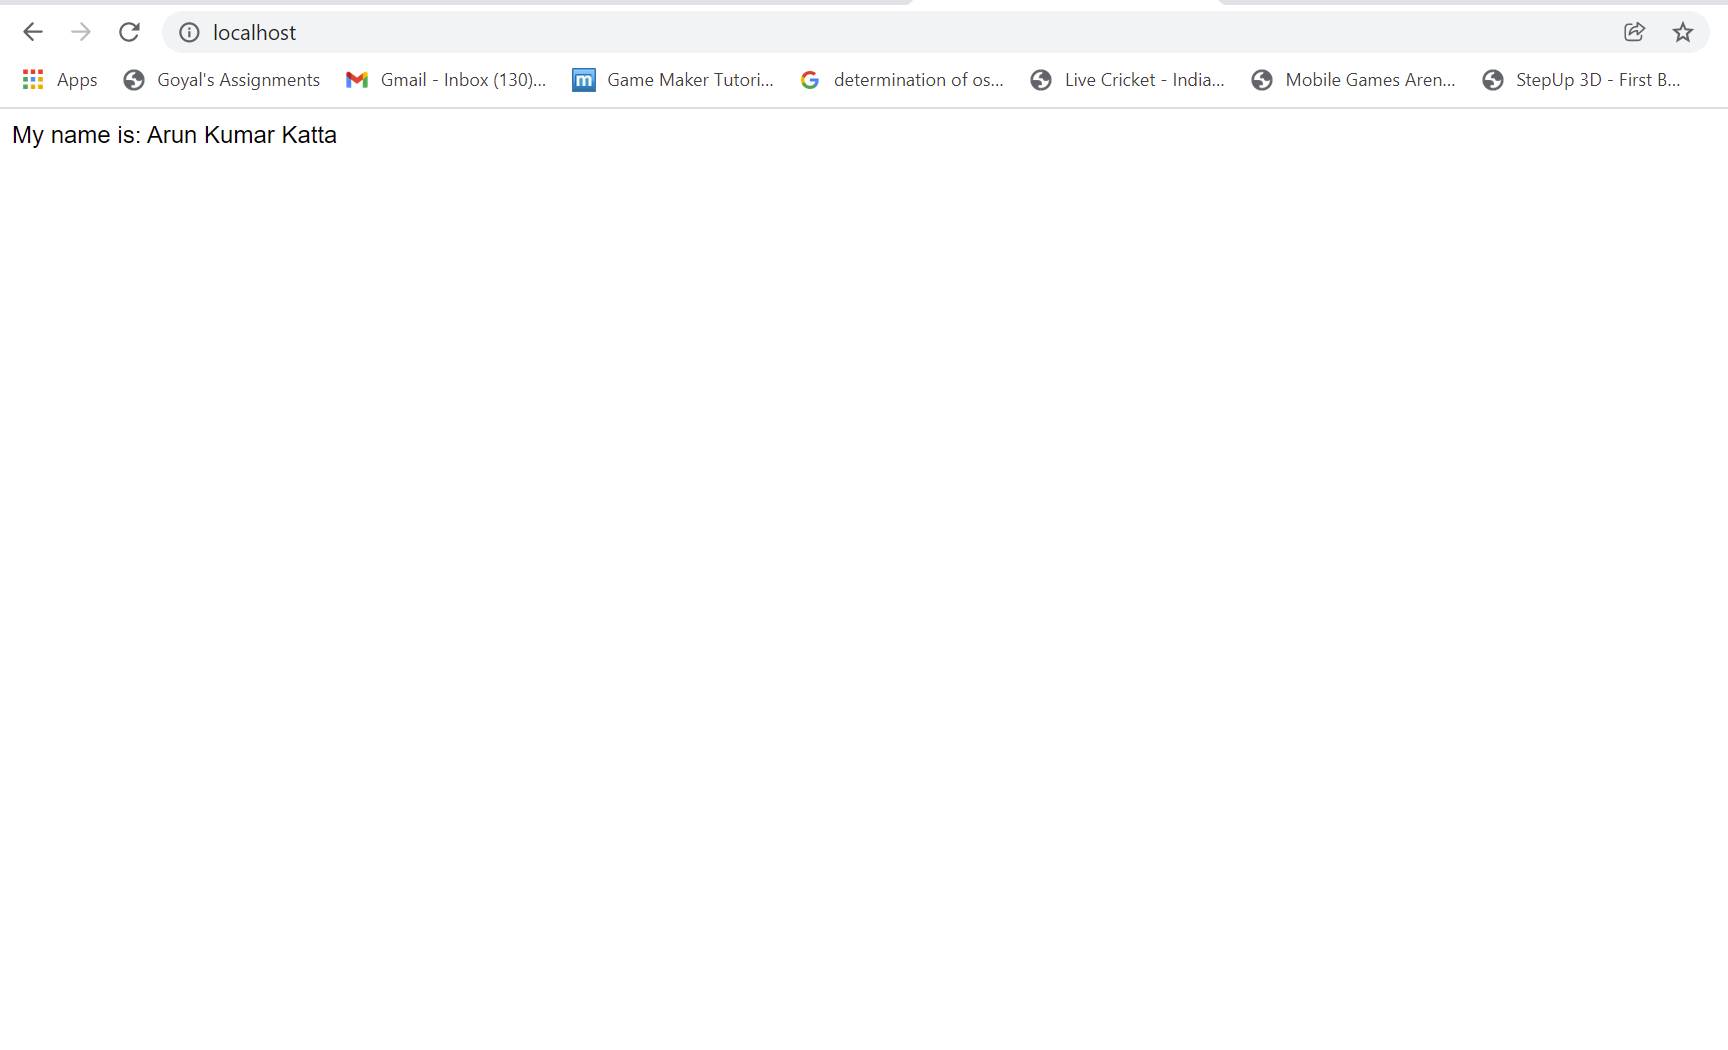
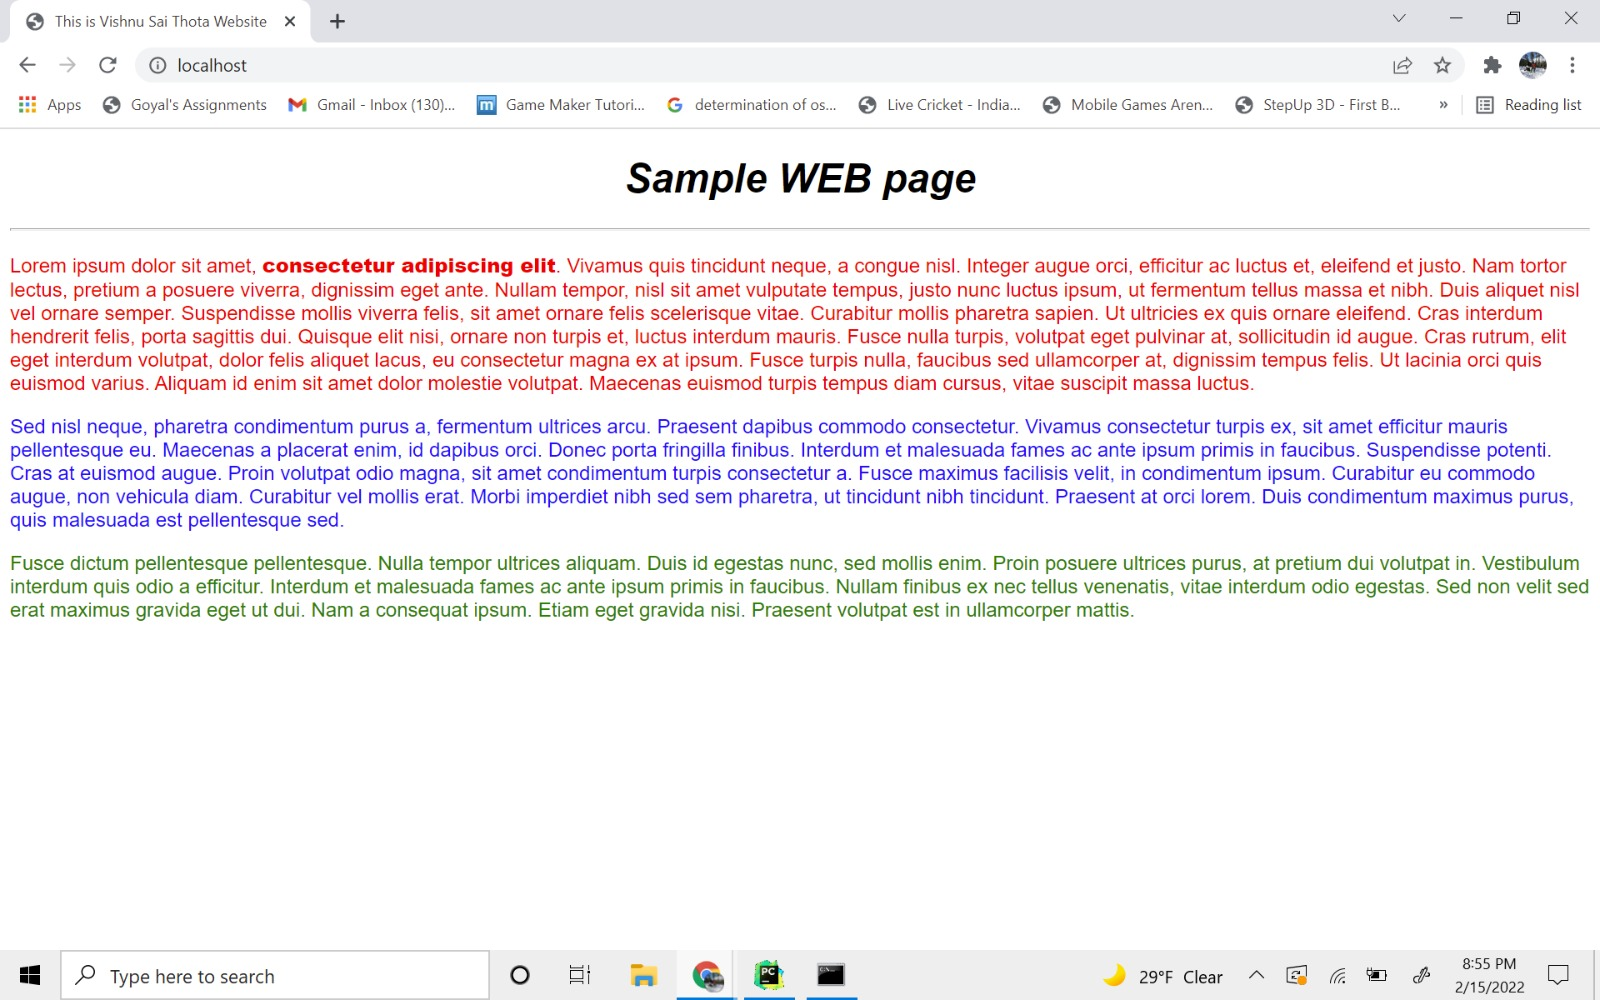
updated

diff --git a/app/templates/index.html b/app/templates/index.html
@@ -6,12 +6,20 @@
     {% block head %}
         <link rel="stylesheet" href="{{ url_for('static', filename='css/style.css') }}"/>
         <script src="{{ url_for('static', filename='js/scripts.js') }}"></script>
-
         <title>{% block title %}{% endblock %}This is {{ name }} Website</title>
     {% endblock %}
 
 </head>
 <body>
-My name is: {{ name }}
+    <div id="main-div">
+        <h1><em>Sample WEB page</em></h1>
+        <hr>
+        <p class="red">Lorem ipsum dolor sit amet, <span class="bold">consectetur adipiscing elit</span>. Vivamus quis tincidunt neque, a congue nisl. Integer augue orci, efficitur ac luctus et, eleifend et justo. Nam tortor lectus, pretium a posuere viverra, dignissim eget ante. Nullam tempor, nisl sit amet vulputate tempus, justo nunc luctus ipsum, ut fermentum tellus massa et nibh. Duis aliquet nisl vel ornare semper. Suspendisse mollis viverra felis, sit amet ornare felis scelerisque vitae. Curabitur mollis pharetra sapien. Ut ultricies ex quis ornare eleifend. Cras interdum hendrerit felis, porta sagittis dui. Quisque elit nisi, ornare non turpis et, luctus interdum mauris. Fusce nulla turpis, volutpat eget pulvinar at, sollicitudin id augue. Cras rutrum, elit eget interdum volutpat, dolor felis aliquet lacus, eu consectetur magna ex at ipsum. Fusce turpis nulla, faucibus sed ullamcorper at, dignissim tempus felis. Ut lacinia orci quis euismod varius. Aliquam id enim sit amet dolor molestie volutpat. Maecenas euismod turpis tempus diam cursus, vitae suscipit massa luctus.</p>
+        <p class="blue">Sed nisl neque, pharetra condimentum purus a, fermentum ultrices arcu. Praesent dapibus commodo consectetur. Vivamus consectetur turpis ex, sit amet efficitur mauris pellentesque eu. Maecenas a placerat enim, id dapibus orci. Donec porta fringilla finibus. Interdum et malesuada fames ac ante ipsum primis in faucibus. Suspendisse potenti. Cras at euismod augue. Proin volutpat odio magna, sit amet condimentum turpis consectetur a. Fusce maximus facilisis velit, in condimentum ipsum. Curabitur eu commodo augue, non vehicula diam. Curabitur vel mollis erat. Morbi imperdiet nibh sed sem pharetra, ut tincidunt nibh tincidunt. Praesent at orci lorem. Duis condimentum maximus purus, quis malesuada est pellentesque sed.</p>
+        <p class="green">Fusce dictum pellentesque pellentesque. Nulla tempor ultrices aliquam. Duis id egestas nunc, sed mollis enim. Proin posuere ultrices purus, at pretium dui volutpat in. Vestibulum interdum quis odio a efficitur. Interdum et malesuada fames ac ante ipsum primis in faucibus. Nullam finibus ex nec tellus venenatis, vitae interdum odio egestas. Sed non velit sed erat maximus gravida eget ut dui. Nam a consequat ipsum. Etiam eget gravida nisi. Praesent volutpat est in ullamcorper mattis.
+        </p>
+        <p class="red">Fusce dictum pellentesque pellentesque. Nulla tempor ultrices aliquam. Duis id egestas nunc, sed mollis enim. Proin posuere ultrices purus, at pretium dui volutpat in. Vestibulum interdum quis odio a efficitur. Interdum et malesuada fames ac ante ipsum primis in faucibus. Nullam finibus ex nec tellus venenatis, vitae interdum odio egestas. Sed non velit sed erat maximus gravida eget ut dui. Nam a consequat ipsum. Etiam eget gravida nisi. Praesent volutpat est in ullamcorper mattis.
+        </p>
+    </div>
 </body>
 </html>

diff --git a/app/static/css/style.css b/app/static/css/style.css
@@ -1,3 +1,20 @@
 body {
     font-family: Helvetica, "Helvetica Neue", sans-serif;
 }
+.red{
+    color: red;
+}
+.blue{
+   color: blue;
+}
+.green{
+    color: green;
+}
+
+.bold {
+    font-weight: 900;
+}
+
+h1{
+    text-align: center;
+}
